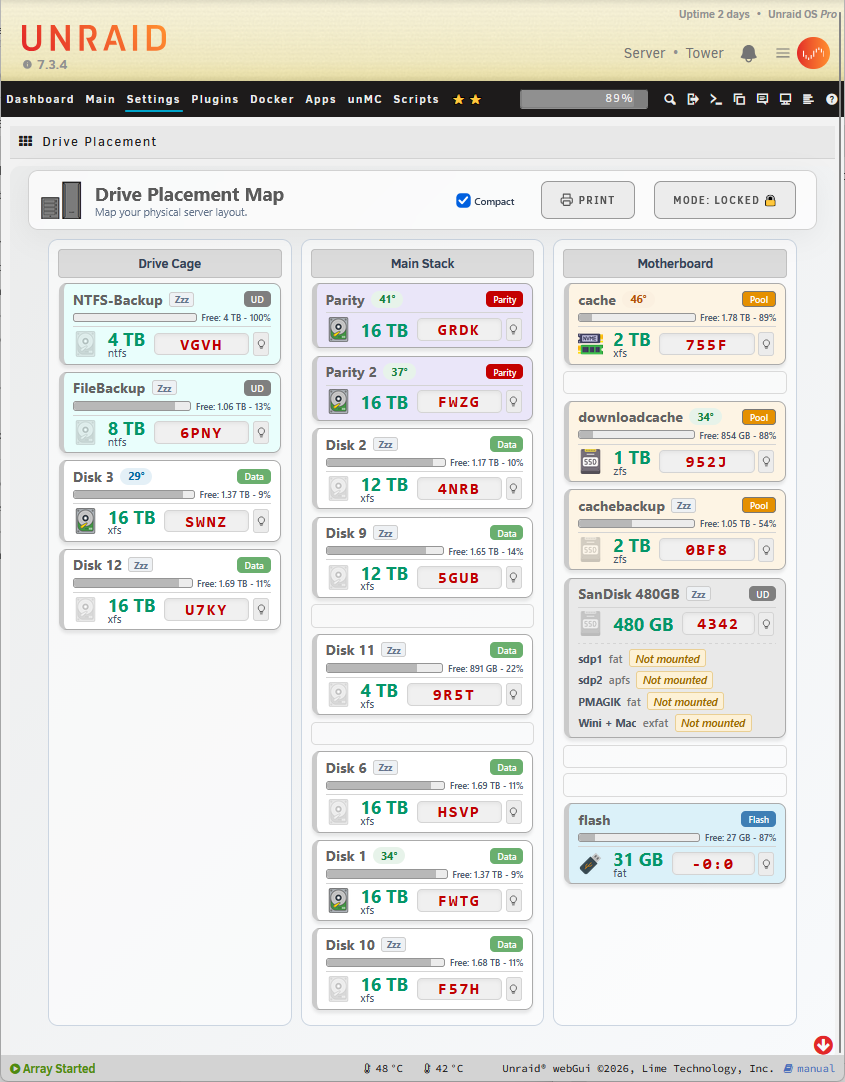
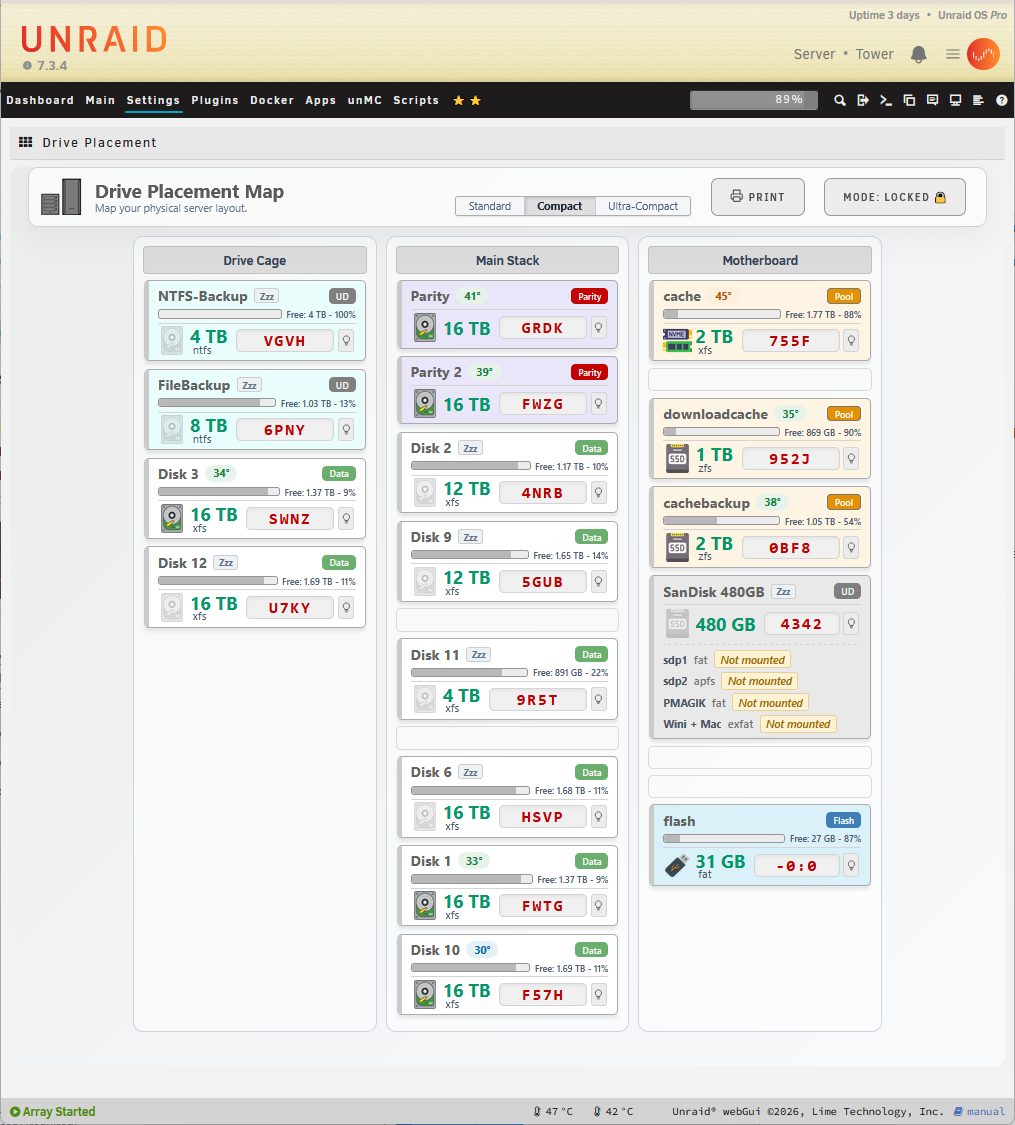
Add Ultra-Compact

diff --git a/DrivePlacement.js b/DrivePlacement.js
@@ -31,18 +31,41 @@ document.addEventListener("DOMContentLoaded", () => {
         const CATEGORY_DEFAULTS_DARK  = { parity: '#322c40', pool: '#3a3326', unassigned: '#30333a', flash: '#26373d' };
         const categoryDefaults = document.body.classList.contains('dp-dark') ? CATEGORY_DEFAULTS_DARK : CATEGORY_DEFAULTS_LIGHT;
 
-        // Compact is the DEFAULT view; a saved preference overrides it. The card layout is ALWAYS
-        // "compact" - the Compact checkbox only shows/hides the model+serial detail block below the head row.
-        let isCompact = (savedLayout && savedLayout.settings && typeof savedLayout.settings.compactMode === 'boolean')
-            ? savedLayout.settings.compactMode : true;
+        // Three view densities: 'standard' | 'compact' | 'ultra'. The card markup is ALWAYS built
+        // "compact"; the view mode only shows/hides blocks:
+        //   standard = also show the model+serial detail block (adds .show-details)
+        //   compact  = head row + usage bar + size/serial line
+        //   ultra    = a single line per card (adds .ultra-mode): name - size [serial] [pill]
+        // Back-compat: older layouts stored a boolean settings.compactMode.
+        let viewMode = 'compact';
+        if (savedLayout && savedLayout.settings) {
+            if (typeof savedLayout.settings.viewMode === 'string') {
+                viewMode = savedLayout.settings.viewMode;
+            } else if (typeof savedLayout.settings.compactMode === 'boolean') {
+                viewMode = savedLayout.settings.compactMode ? 'compact' : 'standard';
+            }
+        }
         document.body.classList.add('compact-mode');
-        document.body.classList.toggle('show-details', !isCompact);
+        function applyViewMode(mode) {
+            viewMode = mode;
+            document.body.classList.toggle('show-details', mode === 'standard');
+            document.body.classList.toggle('ultra-mode', mode === 'ultra');
+        }
+        applyViewMode(viewMode);
 
         const controlsDiv = document.querySelector('.dp-controls');
-        const compactLabel = document.createElement('label');
-        compactLabel.className = 'dp-btn dp-btn-secondary dp-compact-label';
-        compactLabel.innerHTML = `<input type="checkbox" id="dp-compact-toggle" style="margin-right: 5px; transform: scale(1.2);" ${isCompact ? 'checked' : ''}> Compact`;
-        controlsDiv.insertBefore(compactLabel, toggleBtn);
+        const viewControl = document.createElement('div');
+        viewControl.className = 'dp-viewmode';
+        viewControl.innerHTML = `
+            <label class="dp-vm-opt"><input type="radio" name="dp-view" value="standard"> Standard</label>
+            <label class="dp-vm-opt"><input type="radio" name="dp-view" value="compact"> Compact</label>
+            <label class="dp-vm-opt"><input type="radio" name="dp-view" value="ultra"> Ultra-Compact</label>
+        `;
+        controlsDiv.insertBefore(viewControl, toggleBtn);
+        const vmChecked = viewControl.querySelector(`input[value="${viewMode}"]`);
+        if (vmChecked) vmChecked.checked = true;
+        // Height is a fixed 30px in CSS; the selector is vertically centered on the
+        // taller Print/Mode buttons via align-self:center (no JS height-matching).
 
         // Category Colors button (shown only in unlocked mode)
         const catColorBtn = document.createElement('button');
@@ -60,16 +83,16 @@ document.addEventListener("DOMContentLoaded", () => {
         controlsDiv.insertBefore(pdfBtn, toggleBtn);
         pdfBtn.addEventListener('click', exportPdf);
 
-        document.getElementById('dp-compact-toggle').addEventListener('change', (e) => {
-            isCompact = e.target.checked;
-            document.body.classList.toggle('show-details', !isCompact);
+        viewControl.addEventListener('change', (e) => {
+            if (!e.target || e.target.name !== 'dp-view') return;
+            applyViewMode(e.target.value);
             if (window.dpSizeColumns) requestAnimationFrame(window.dpSizeColumns);
             persistCompactPref();   // remember the view choice across page loads
         });
 
         // Build the full layout object from the current DOM (shared by Save and the compact-pref auto-save).
         function buildLayout() {
-            const layout = { columns: [], metadata: {}, categoryColors: categoryColors, settings: { compactMode: isCompact } };
+            const layout = { columns: [], metadata: {}, categoryColors: categoryColors, settings: { viewMode: viewMode, compactMode: viewMode !== 'standard' } };
             document.querySelectorAll('.dp-column').forEach(col => {
                 const titleInput = col.querySelector('.dp-column-title');
                 const title = titleInput ? titleInput.value : "Column";
@@ -278,6 +301,13 @@ document.addEventListener("DOMContentLoaded", () => {
             // The card is always laid out "compact". The .dp-detail block (model + full serial) sits
             // between the head row and the main line, and is shown only when "Compact" is unchecked.
             card.innerHTML = `
+                <div class="dp-ultra-line">
+                    <span class="dp-ultra-name">${displayName}</span>
+                    <span class="dp-ultra-sep">-</span>
+                    <span class="dp-ultra-size">${drive.size || ""}</span>
+                    <span class="dp-ultra-serial" title="${serialTitle}">${last4.toUpperCase()}</span>
+                    <div class="dp-badge ${badgeClass}" title="${badgeTitle}">${typeLabel}</div>
+                </div>
                 <div class="dp-head-row">
                     <span class="dp-drive-name">${displayName}</span>
                     ${tempHtml}
@@ -512,6 +542,7 @@ document.addEventListener("DOMContentLoaded", () => {
         // measure the real rendered content (immune to that) and set explicit widths.
         function sizeColumns() {
             const compact = document.body.classList.contains('compact-mode');
+            const ultra = document.body.classList.contains('ultra-mode');
             const cols = [...layoutGrid.querySelectorAll('.dp-column')];
             if (!cols.length) return;
             cols.forEach(c => { c.style.width = ''; c.style.flex = ''; });  // reset before measuring
@@ -519,6 +550,16 @@ document.addEventListener("DOMContentLoaded", () => {
             const widths = cols.map(col => {
                 let need = 0;
                 col.querySelectorAll('.dp-card').forEach(card => {
+                    if (ultra) {
+                        const ul = card.querySelector('.dp-ultra-line');
+                        let uw = 0;
+                        if (ul) {
+                            const uk = [...ul.children].filter(k => k.offsetWidth > 0);
+                            uw = uk.reduce((a, k) => a + k.offsetWidth, 0) + Math.max(0, uk.length - 1) * 8;
+                        }
+                        if (uw > need) need = uw;
+                        return;
+                    }
                     const hr = card.querySelector('.dp-head-row');
                     let headW = 0;
                     if (hr) {

diff --git a/DrivePlacement.css b/DrivePlacement.css
@@ -5,7 +5,7 @@
     color: #1e293b;
     font-family: -apple-system, BlinkMacSystemFont, "Segoe UI", Roboto, sans-serif;
     border-radius: 12px;
-    padding-top: 5px;
+    padding-top: 0px;
 }
 
 .glass-panel {
@@ -52,6 +52,48 @@
     align-items: center;
     cursor: pointer;
     user-select: none;
+}
+
+/* 3-way view-density selector: Standard / Compact / Ultra-Compact.
+   Flat joined tabs in the unRAID style (like the "Shares | Whole OS" toggle):
+   one bordered group, rounded only on the outer corners, divider between tabs,
+   grey selected state. Explicit padding matches the Print/Mode button height. */
+.dp-viewmode {
+    display: inline-flex;
+    align-items: stretch;
+    align-self: flex-end;                        /* bottom-align with the Print/Mode buttons */
+    box-sizing: border-box;
+    border: 1px solid #adadad;
+    border-radius: 4px;
+    overflow: hidden;
+    background: #f4f6f8;
+    box-shadow: 0 1px 2px rgba(0,0,0,0.10);
+    height: 22px;
+    margin: 0 12px 10px 0;                        /* 10px bottom margin matches the buttons' so the bottoms line up */
+}
+.dp-vm-opt {
+    display: inline-flex;
+    align-items: center;
+    justify-content: center;
+    margin: 0;
+    padding: 0 14px;
+    cursor: pointer;
+    color: #51607a;
+    font-size: 1.2rem;
+    font-weight: 500;
+    user-select: none;
+    white-space: nowrap;
+    border-right: 1px solid #c3cad4;
+    transition: background 0.12s, color 0.12s;
+}
+.dp-vm-opt:last-child { border-right: none; }
+.dp-vm-opt:hover { background: #e8ebef; }
+.dp-vm-opt input { display: none; }
+.dp-vm-opt:has(input:checked) {
+    background: #dfdfdf;
+    color: #1f2937;
+    font-weight: 700;
+    box-shadow: inset 2px 2px 2px rgba(0,0,0,0.10);
 }
 
 .dp-btn-success { background: #10b981; color: white; box-shadow: 0 4px 12px rgba(16, 185, 129, 0.3); }
@@ -227,7 +269,7 @@
     cursor: grab;
     position: relative;
     background: white;
-    border-radius: 10px;
+    border-radius: 6px;
     box-shadow: 0 4px 3px rgba(0,0,0,0.08);
     border: 1px solid #ababab;
     width: 100%;
@@ -477,8 +519,8 @@
     background: #f8fafc;
     padding: 15px;
     border-radius: 10px;
-    border: 2px solid #3b82f6; 
-    box-shadow: 0 10px 30px rgba(0,0,0,0.2); 
+    border: 2px solid #8f8f8f;
+    box-shadow: 0 10px 30px rgba(0,0,0,0.5);
     box-sizing: border-box;
 }
 
@@ -836,6 +878,10 @@
 .dp-dark .dp-subtitle { color: #9aa3ad; }
 .dp-dark .dp-btn-secondary { color: #d6dadf; }
 .dp-dark .dp-btn-secondary:hover { background: #343841; }
+.dp-dark .dp-viewmode { background: #2a2e35; border-color: #454a52; }
+.dp-dark .dp-vm-opt { color: #aeb6c2; border-right-color: #454a52; }
+.dp-dark .dp-vm-opt:hover { background: #343841; }
+.dp-dark .dp-vm-opt:has(input:checked) { background: #4a5059; color: #ffffff; box-shadow: inset 0 2px 4px rgba(0,0,0,0.40); }
 
 .dp-dark .dp-column { background: transparent; border-color: #3a3d42; }
 .dp-dark.locked .dp-column { border-color: #3a3d42; background: rgba(255,255,255,0.03); }
@@ -923,3 +969,85 @@
 .dp-dark .dp-led.blinking { color: #ff6b6b; }
 
 
+
+/* ============================================================
+   ULTRA-COMPACT view: one line per card -> Name - Size [serial] [pill]
+   .ultra-mode is applied on top of .compact-mode; these rules follow the
+   compact rules in source order so they win at equal specificity.
+   ============================================================ */
+.dp-ultra-line { display: none; }
+.ultra-mode .dp-head-row,
+.ultra-mode .dp-usage-row,
+.ultra-mode .dp-detail,
+.ultra-mode .dp-main,
+.ultra-mode .dp-parts,
+.ultra-mode .dp-drive-notes { display: none !important; }
+
+.ultra-mode .dp-ultra-line {
+    display: flex;
+    align-items: center;
+    gap: 5px;
+    padding: 1px 2px;
+}
+.ultra-mode .dp-slot { height: 42px !important; }
+.ultra-mode .dp-slot:has(.dp-card) { height: auto !important; min-height: 0 !important; }
+.ultra-mode .dp-card { padding-top: 6px !important; padding-bottom: 6px !important; }
+
+.dp-ultra-name {
+    font-weight: 800;
+    font-size: 1.45rem;
+    color: #3f4a5a;
+    white-space: nowrap;
+    flex: 0 0 auto;            /* full name by default -> column grows to the widest card */
+}
+.dp-ultra-sep { color: #9aa3ad; font-weight: 600; flex: 0 0 auto; }
+.dp-ultra-size {
+    font-weight: 750;
+    font-size: 1.5rem;
+    color: #059669;
+    white-space: nowrap;
+    flex: 0 0 auto;
+}
+.dp-ultra-serial {
+    margin-left: auto;                 /* push the serial + pill to the right edge */
+    font-family: monospace;
+    font-weight: 900;
+    font-size: 1.3rem;
+    letter-spacing: 1.5px;
+    color: #c40000;
+    background: #ffffff;
+    border: 1px solid #e3b7b7;
+    border-radius: 5px;
+    padding: 1px 9px;
+    flex: 0 0 auto;
+}
+.ultra-mode .dp-ultra-line .dp-badge { flex: 0 0 auto; }
+
+/* dark skin */
+.dp-dark .dp-ultra-name { color: #e5e7eb; }
+.dp-dark .dp-ultra-sep { color: #8b9096; }
+.dp-dark .dp-ultra-serial { background: #26282c; border-color: #44474d; color: #ff6b6b; }
+
+/* Ultra-compact names: only truncate when the browser is iPad-narrow.
+   At wider widths the column grows to the widest full name (no ellipsis);
+   at narrow widths columns become flexible/wrapping and names ellipsize to fit. */
+@media (max-width: 860px) {
+    .ultra-mode .dp-layout-grid {
+        flex-wrap: wrap;
+        overflow-x: hidden;
+        justify-content: center;
+        align-items: flex-start;
+    }
+    .ultra-mode .dp-column {
+        width: auto !important;
+        flex: 1 1 300px !important;
+        min-width: 240px;
+        max-width: 540px;
+    }
+    .ultra-mode .dp-ultra-name {
+        flex: 1 1 auto;
+        min-width: 0;
+        overflow: hidden;
+        text-overflow: ellipsis;
+    }
+}

diff --git a/README.md b/README.md
@@ -6,8 +6,14 @@
 ![Drive Placement - compact mode](screenshot-compact.png)
 **Compact View**
 
+![Drive Placement - ultra-compact view](screenshot-ultra.png)
+**Ultra-Compact View**
+
 ![Drive Placement - unlocked editing mode](screenshot-unlocked.png)
 **Unlocked Mode**
+
+![Drive Placement - drive edit form](screenshot-editable.png)
+**Edit Drive**
 
 ![Drive Placement - printable PDF report](screenshot-pdf.png)
 **Print Layout**
